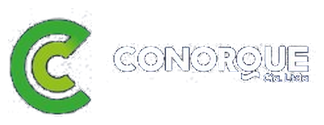
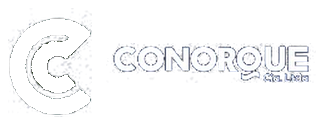
Make Conorque mark white

Changed region(s): [[0.0309, 0.144, 0.2778, 0.912]]

diff --git a/index.html b/index.html
@@ -37,7 +37,7 @@
         document.head.append(heroPreload);
       }
     </script>
-    <link rel="stylesheet" href="styles.css?v=conorque-horizontal-20261029" />
+    <link rel="stylesheet" href="styles.css?v=conorque-white-20261029" />
     <link rel="stylesheet" href="mobile-menu-fix.css" />
     <link rel="stylesheet" href="home-redesign.css?v=stockist-logo-scale-20261020" />
     <link rel="stylesheet" href="motion-experience.css?v=hero-story-adjust-20261029" />
@@ -47,7 +47,7 @@
     <script defer src="catalog.js?v=20261023-2"></script>
     <script defer src="editorial-data.js?v=unique-context-images-20261028"></script>
     <script defer src="motion-experience.js?v=category-motion-20-percent"></script>
-    <script defer src="app.js?v=conorque-horizontal-20261029"></script>
+    <script defer src="app.js?v=conorque-white-20261029"></script>
   </head>
   <body>
     <a class="skip-link" href="#main">Saltar al contenido</a>
